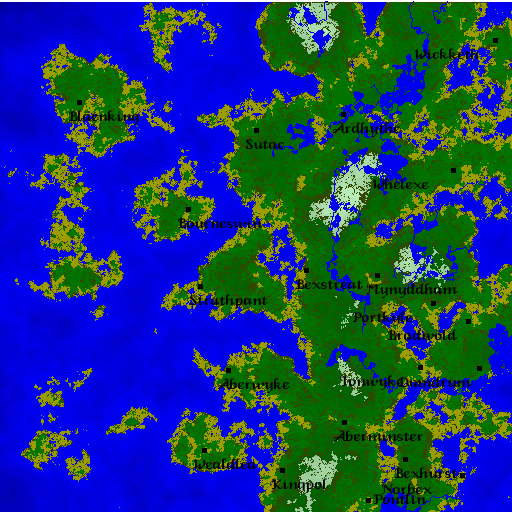
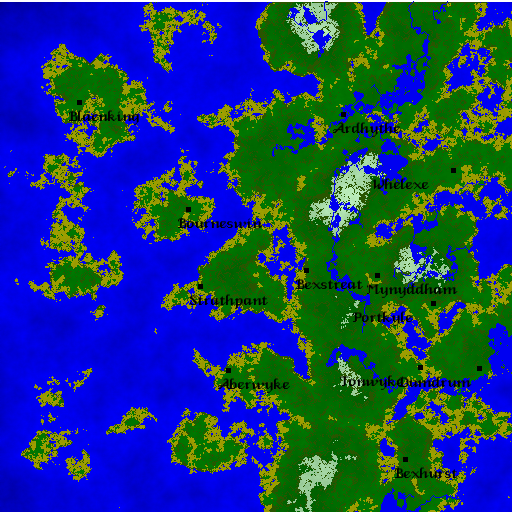
minor change: editted colours in view script

diff --git a/scripts/view.py b/scripts/view.py
@@ -77,14 +77,14 @@ for i in range(0,h):
 			if(i-1>=0 and (i+1)<h-2):
 				if(abs(int(map_vals[(i-1)*h + j])-int(map_vals[(i+1)*h+j])) >= cliff_diff):
 	        #type="cliff";
-					draw.point((i,j), fill=(51,70,0))
+					draw.point((i,j), fill=(41,85,0))
 					is_cliff = True;
 
   	  #East-West difference
 			if not is_cliff:
 				if(j-1>=0 and j+1<w-2):
 					if(abs(int(map_vals[(i)*h + j-1])-int(map_vals[(i)*h+j+1])) >= cliff_diff):
-						draw.point((i,j), fill=(51,70,0))
+						draw.point((i,j), fill=(41,85,0))
 
 i = 0
 for re in river_elems:
